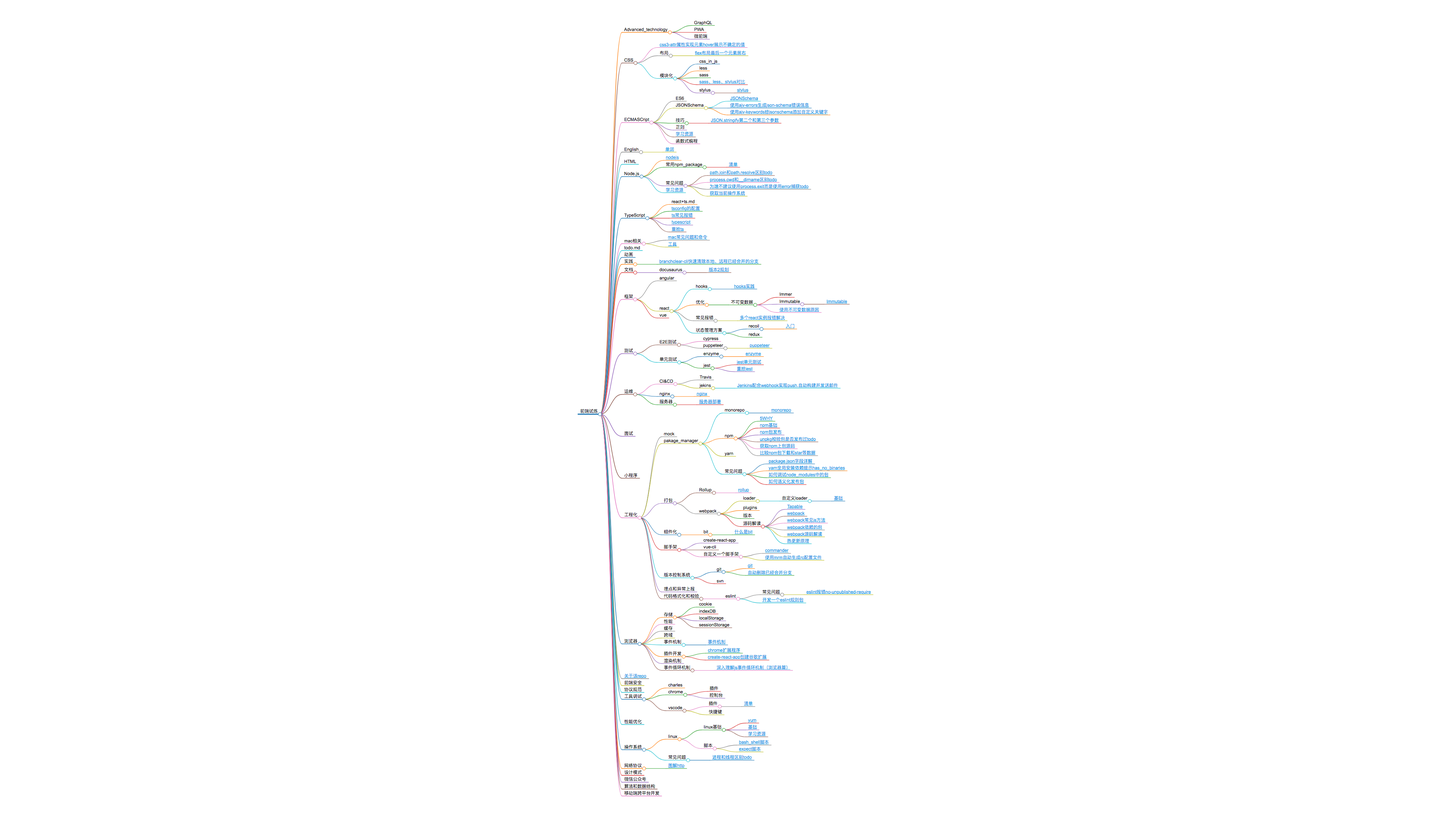
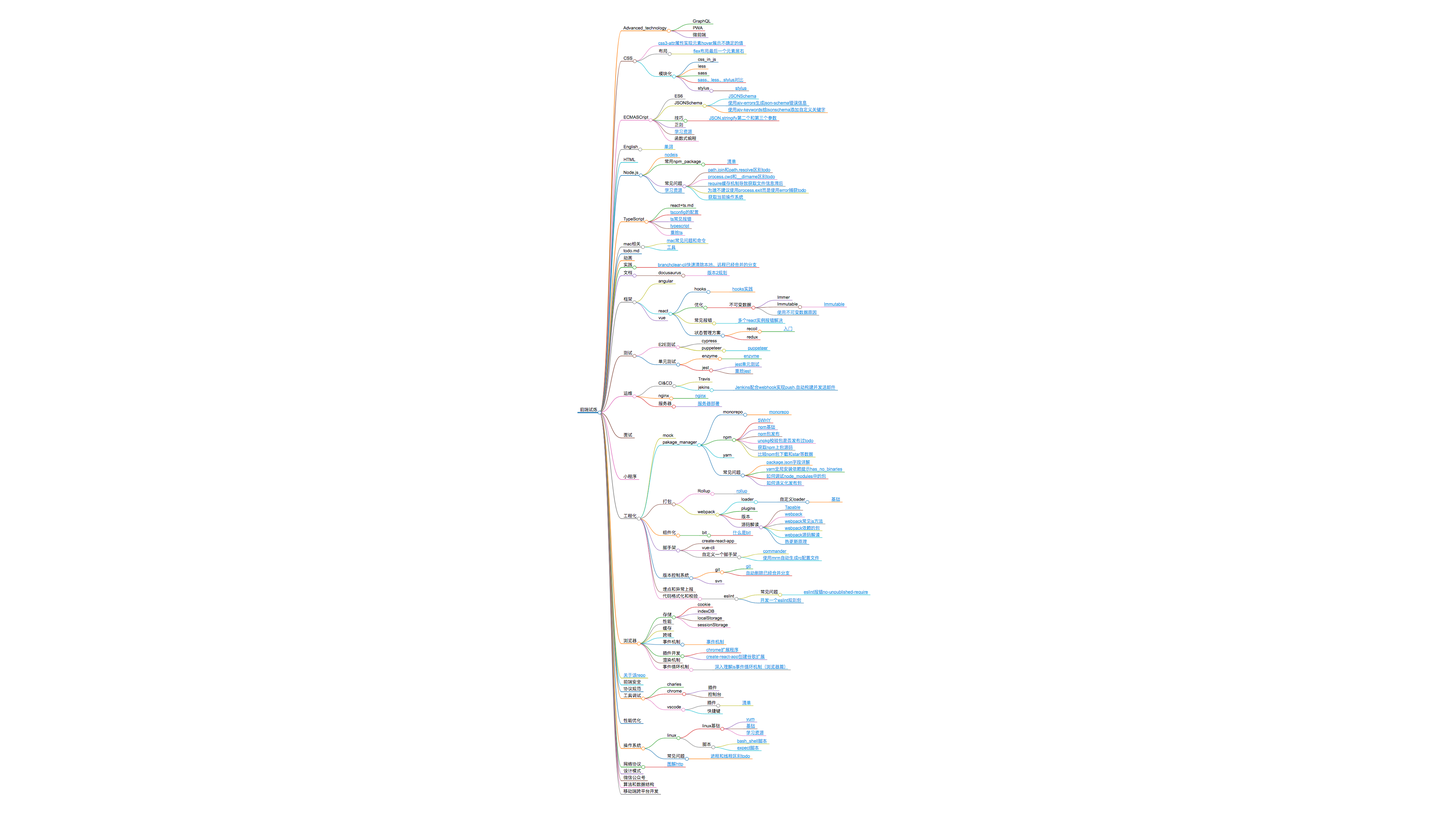
chore: updata思维导图

Changed region(s): [[0.4062, 0.031, 0.5938, 0.9926]]

diff --git a/website/static/xmind.html b/website/static/xmind.html
@@ -28,6 +28,6 @@
         (init ? init(loadPlugins, items, opts) : Promise.resolve()).then(() => {
           window.mm = Markmap.create('svg#mindmap', null, data);
         });
-      })({"t":"heading","d":1,"v":"前端试炼","c":[{"t":"list_item","d":2,"v":"Advanced_technology","c":[{"t":"list_item","d":3,"v":"GraphQL"},{"t":"list_item","d":3,"v":"PWA"},{"t":"list_item","d":3,"v":"微前端"}]},{"t":"list_item","d":2,"v":"CSS","c":[{"t":"list_item","d":3,"v":"<a href=\"docs/CSS/0729c4e1a19b9e3b6904b91e63cbd435\" title=\"\" target=\"_blank\" rel=\"noopener noreferrer\">css3-attr属性实现元素hover展示不确定的值</a>"},{"t":"list_item","d":3,"v":"布局","c":[{"t":"list_item","d":4,"v":"<a href=\"docs/CSS/布局/eb6d78cc58b2a5329f391cf5692181a3\" title=\"\" target=\"_blank\" rel=\"noopener noreferrer\">flex布局最后一个元素居右</a>"}]},{"t":"list_item","d":3,"v":"模块化","c":[{"t":"list_item","d":4,"v":"css_in_js"},{"t":"list_item","d":4,"v":"less"},{"t":"list_item","d":4,"v":"sass"},{"t":"list_item","d":4,"v":"<a href=\"docs/CSS/模块化/98c70242585e1c8ac87207d342ab81e0\" title=\"\" target=\"_blank\" rel=\"noopener noreferrer\">sass、less、stylus对比</a>"},{"t":"list_item","d":4,"v":"stylus","c":[{"t":"list_item","d":5,"v":"<a href=\"docs/CSS/模块化/stylus/3eef002bc8e16c0f5c28e748a52e231d\" title=\"\" target=\"_blank\" rel=\"noopener noreferrer\">stylus</a>"}]}]}]},{"t":"list_item","d":2,"v":"ECMASCript","c":[{"t":"list_item","d":3,"v":"ES6"},{"t":"list_item","d":3,"v":"JSONSchema","c":[{"t":"list_item","d":4,"v":"<a href=\"docs/ECMASCript/JSONSchema/718deb34c13a2d51e3c2ba69f472fce9\" title=\"\" target=\"_blank\" rel=\"noopener noreferrer\">JSONSchema</a>"},{"t":"list_item","d":4,"v":"<a href=\"docs/ECMASCript/JSONSchema/f7964c8f9054ea24043d6089ad339147\" title=\"\" target=\"_blank\" rel=\"noopener noreferrer\">使用ajv-errors生成json-schema错误信息</a>"},{"t":"list_item","d":4,"v":"<a href=\"docs/ECMASCript/JSONSchema/5237e232cb7cb852580db82169fdcaeb\" title=\"\" target=\"_blank\" rel=\"noopener noreferrer\">使用ajv-keywords给jsonschema添加自定义关键字</a>"}]},{"t":"list_item","d":3,"v":"技巧","c":[{"t":"list_item","d":4,"v":"<a href=\"docs/ECMASCript/技巧/5139b5f5e47a4d72104039ad03405c5d\" title=\"\" target=\"_blank\" rel=\"noopener noreferrer\">JSON.stringify第二个和第三个参数</a>"}]},{"t":"list_item","d":3,"v":"正则"},{"t":"list_item","d":3,"v":"<a href=\"docs/ECMASCript/b53484b1bcbe1911e09c68d510ac7d64\" title=\"\" target=\"_blank\" rel=\"noopener noreferrer\">学习资源</a>"},{"t":"list_item","d":3,"v":"函数式编程"}]},{"t":"list_item","d":2,"v":"English","c":[{"t":"list_item","d":3,"v":"<a href=\"docs/English/72a91cf59167d6c497b1e3057447af5a\" title=\"\" target=\"_blank\" rel=\"noopener noreferrer\">单词</a>"}]},{"t":"list_item","d":2,"v":"HTML"},{"t":"list_item","d":2,"v":"Node.js","c":[{"t":"list_item","d":3,"v":"<a href=\"docs/Node.js/9357827bccfd0bf3ae944e8deeb1fa48\" title=\"\" target=\"_blank\" rel=\"noopener noreferrer\">nodejs</a>"},{"t":"list_item","d":3,"v":"常用npm_package","c":[{"t":"list_item","d":4,"v":"<a href=\"docs/Node.js/常用npm_package/5b48dd8280d9d24945307c72022765a0\" title=\"\" target=\"_blank\" rel=\"noopener noreferrer\">清单</a>"}]},{"t":"list_item","d":3,"v":"常见问题","c":[{"t":"list_item","d":4,"v":"<a href=\"docs/Node.js/常见问题/f874460aea01b819cbf70140c60331a4\" title=\"\" target=\"_blank\" rel=\"noopener noreferrer\">path.join和path.resolve区别todo</a>"},{"t":"list_item","d":4,"v":"<a href=\"docs/Node.js/常见问题/50ed84a6800346cb4b1d9cd9c13745d5\" title=\"\" target=\"_blank\" rel=\"noopener noreferrer\">process.cwd和__dirname区别todo</a>"},{"t":"list_item","d":4,"v":"<a href=\"docs/Node.js/常见问题/d3fd7ec814edd2f7330387995085241f\" title=\"\" target=\"_blank\" rel=\"noopener noreferrer\">为啥不建议使用process.exit而是使用error捕获todo</a>"},{"t":"list_item","d":4,"v":"<a href=\"docs/Node.js/常见问题/bf0629eadb8aaeb89078485e6f68a4e6\" title=\"\" target=\"_blank\" rel=\"noopener noreferrer\">获取当前操作系统</a>"}]},{"t":"list_item","d":3,"v":"<a href=\"docs/ECMASCript/b53484b1bcbe1911e09c68d510ac7d64\" title=\"\" target=\"_blank\" rel=\"noopener noreferrer\">学习资源</a>"}]},{"t":"list_item","d":2,"v":"TypeScript","c":[{"t":"list_item","d":3,"v":"react+ts.md"},{"t":"list_item","d":3,"v":"<a href=\"docs/TypeScript/941029577f8137518ccff8392ddf4bfc\" title=\"\" target=\"_blank\" rel=\"noopener noreferrer\">tsconfig的配置</a>"},{"t":"list_item","d":3,"v":"<a href=\"docs/TypeScript/e387b68cc466c705d3a61c3582db7e05\" title=\"\" target=\"_blank\" rel=\"noopener noreferrer\">ts常见报错</a>"},{"t":"list_item","d":3,"v":"<a href=\"docs/TypeScript/808567b84cc51ad515d4820e54f84e31\" title=\"\" target=\"_blank\" rel=\"noopener noreferrer\">typescript</a>"},{"t":"list_item","d":3,"v":"<a href=\"docs/TypeScript/b36f6376acc1abd98aab96ef91491d2b\" title=\"\" target=\"_blank\" rel=\"noopener noreferrer\">重拾ts</a>"}]},{"t":"list_item","d":2,"v":"mac相关","c":[{"t":"list_item","d":3,"v":"<a href=\"docs/mac相关/f9043ab4f4bd67e13820f42a3e175b56\" title=\"\" target=\"_blank\" rel=\"noopener noreferrer\">mac常见问题和命令</a>"},{"t":"list_item","d":3,"v":"<a href=\"docs/mac相关/82d4f547f3142fe4ef26499f9a3096c0\" title=\"\" target=\"_blank\" rel=\"noopener noreferrer\">工具</a>"}]},{"t":"list_item","d":2,"v":"todo.md"},{"t":"list_item","d":2,"v":"动画"},{"t":"list_item","d":2,"v":"实践","c":[{"t":"list_item","d":3,"v":"<a href=\"docs/实践/bff45875a92bdbb4eff38e2fbd282edc\" title=\"\" target=\"_blank\" rel=\"noopener noreferrer\">branchclear-cli快速清除本地、远程已经合并的分支</a>"}]},{"t":"list_item","d":2,"v":"文档","c":[{"t":"list_item","d":3,"v":"docusaurus","c":[{"t":"list_item","d":4,"v":"<a href=\"docs/文档/docusaurus/a7934b68b6234157a1af4087537d1e8b\" title=\"\" target=\"_blank\" rel=\"noopener noreferrer\">版本2规划</a>"}]}]},{"t":"list_item","d":2,"v":"框架","c":[{"t":"list_item","d":3,"v":"angular"},{"t":"list_item","d":3,"v":"react","c":[{"t":"list_item","d":4,"v":"hooks","c":[{"t":"list_item","d":5,"v":"<a href=\"docs/框架/react/hooks/9991378aff737eabebd91bfda98cdb30\" title=\"\" target=\"_blank\" rel=\"noopener noreferrer\">hooks实践</a>"}]},{"t":"list_item","d":4,"v":"优化","c":[{"t":"list_item","d":5,"v":"不可变数据","c":[{"t":"list_item","d":6,"v":"Immer"},{"t":"list_item","d":6,"v":"Immutable","c":[{"t":"list_item","d":7,"v":"<a href=\"docs/框架/react/优化/不可变数据/Immutable/621796f5446f10b3efc9f3e9e5ba1f85\" title=\"\" target=\"_blank\" rel=\"noopener noreferrer\">Immutable</a>"}]},{"t":"list_item","d":6,"v":"<a href=\"docs/框架/react/优化/不可变数据/5dbc6cd87c89bc3c45fc1c7847cf5f4a\" title=\"\" target=\"_blank\" rel=\"noopener noreferrer\">使用不可变数据原因</a>"}]}]},{"t":"list_item","d":4,"v":"常见报错","c":[{"t":"list_item","d":5,"v":"<a href=\"docs/框架/react/常见报错/7d0e60c89a5f550eadf89f5f22550bcc\" title=\"\" target=\"_blank\" rel=\"noopener noreferrer\">多个react实例报错解决</a>"}]},{"t":"list_item","d":4,"v":"状态管理方案","c":[{"t":"list_item","d":5,"v":"recoil","c":[{"t":"list_item","d":6,"v":"<a href=\"docs/框架/react/状态管理方案/recoil/f875b638480655fa74ed57f634dda816\" title=\"\" target=\"_blank\" rel=\"noopener noreferrer\">入门</a>"}]},{"t":"list_item","d":5,"v":"redux"}]}]},{"t":"list_item","d":3,"v":"vue"}]},{"t":"list_item","d":2,"v":"测试","c":[{"t":"list_item","d":3,"v":"E2E测试","c":[{"t":"list_item","d":4,"v":"cypress"},{"t":"list_item","d":4,"v":"puppeteer","c":[{"t":"list_item","d":5,"v":"<a href=\"docs/测试/E2E测试/puppeteer/179673e977b3c3f9ad055a4b4a1e4eff\" title=\"\" target=\"_blank\" rel=\"noopener noreferrer\">puppeteer</a>"}]}]},{"t":"list_item","d":3,"v":"单元测试","c":[{"t":"list_item","d":4,"v":"enzyme","c":[{"t":"list_item","d":5,"v":"<a href=\"docs/测试/单元测试/enzyme/ff68fd239a281351a53d6e0b62b17fe7\" title=\"\" target=\"_blank\" rel=\"noopener noreferrer\">enzyme</a>"}]},{"t":"list_item","d":4,"v":"jest","c":[{"t":"list_item","d":5,"v":"<a href=\"docs/测试/单元测试/jest/094b039468990ad513f1f8dd484d8dc2\" title=\"\" target=\"_blank\" rel=\"noopener noreferrer\">jest单元测试</a>"},{"t":"list_item","d":5,"v":"<a href=\"docs/测试/单元测试/jest/b1f6cee7ef1784df1f5f69a9c4a785da\" title=\"\" target=\"_blank\" rel=\"noopener noreferrer\">重拾jest</a>"}]}]}]},{"t":"list_item","d":2,"v":"运维","c":[{"t":"list_item","d":3,"v":"CI&amp;CD","c":[{"t":"list_item","d":4,"v":"Travis"},{"t":"list_item","d":4,"v":"jekins","c":[{"t":"list_item","d":5,"v":"<a href=\"docs/运维/CI&amp;CD/jekins/69e64cd56b4da0c2d19ca9f6aa38e042\" title=\"\" target=\"_blank\" rel=\"noopener noreferrer\">Jenkins配合webhook实现push,自动构建并发送邮件</a>"}]}]},{"t":"list_item","d":3,"v":"nginx","c":[{"t":"list_item","d":4,"v":"<a href=\"docs/运维/nginx/c135a55ada5c373bcd601d340d2d1943\" title=\"\" target=\"_blank\" rel=\"noopener noreferrer\">nginx</a>"}]},{"t":"list_item","d":3,"v":"服务器","c":[{"t":"list_item","d":4,"v":"<a href=\"docs/运维/服务器/4534c39b9f5e4932e9fafed646293fde\" title=\"\" target=\"_blank\" rel=\"noopener noreferrer\">服务器部署</a>"}]}]},{"t":"list_item","d":2,"v":"面试"},{"t":"list_item","d":2,"v":"小程序"},{"t":"list_item","d":2,"v":"工程化","c":[{"t":"list_item","d":3,"v":"mock"},{"t":"list_item","d":3,"v":"pakage_manager","c":[{"t":"list_item","d":4,"v":"monorepo","c":[{"t":"list_item","d":5,"v":"<a href=\"docs/工程化/pakage_manager/monorepo/2fc77a972253a664a79edc7890b1cdaa\" title=\"\" target=\"_blank\" rel=\"noopener noreferrer\">monorepo</a>"}]},{"t":"list_item","d":4,"v":"npm","c":[{"t":"list_item","d":5,"v":"<a href=\"docs/工程化/pakage_manager/npm/c7133389f53e8d534c388d5ce8b37459\" title=\"\" target=\"_blank\" rel=\"noopener noreferrer\">5WHY</a>"},{"t":"list_item","d":5,"v":"<a href=\"docs/工程化/pakage_manager/npm/b0d55dfa1de54204fc41a6b540e0e1e8\" title=\"\" target=\"_blank\" rel=\"noopener noreferrer\">npm基础</a>"},{"t":"list_item","d":5,"v":"<a href=\"docs/工程化/pakage_manager/npm/ba56c3b18aefa148f9439f026ec3f973\" title=\"\" target=\"_blank\" rel=\"noopener noreferrer\">npm包发布</a>"},{"t":"list_item","d":5,"v":"<a href=\"docs/工程化/pakage_manager/npm/3dd3c63e7e82145fe4b336ebc0271830\" title=\"\" target=\"_blank\" rel=\"noopener noreferrer\">unpkg校验包是否发布过todo</a>"},{"t":"list_item","d":5,"v":"<a href=\"docs/工程化/pakage_manager/npm/76a2b2c6444168e2975719ab5b80d947\" title=\"\" target=\"_blank\" rel=\"noopener noreferrer\">获取npm上包源码</a>"},{"t":"list_item","d":5,"v":"<a href=\"docs/工程化/pakage_manager/npm/4d10ece56264e33ab8a02f78698d77a1\" title=\"\" target=\"_blank\" rel=\"noopener noreferrer\">比较npm包下载和star等数据</a>"}]},{"t":"list_item","d":4,"v":"yarn"},{"t":"list_item","d":4,"v":"常见问题","c":[{"t":"list_item","d":5,"v":"<a href=\"docs/工程化/pakage_manager/常见问题/505112b129e18311b92912279ec967ac\" title=\"\" target=\"_blank\" rel=\"noopener noreferrer\">package.json字段详解</a>"},{"t":"list_item","d":5,"v":"<a href=\"docs/工程化/pakage_manager/常见问题/aa55a1757ae8690ae5adae7d48914a4a\" title=\"\" target=\"_blank\" rel=\"noopener noreferrer\">yarn全局安装依赖提示has_no_binaries</a>"},{"t":"list_item","d":5,"v":"<a href=\"docs/工程化/pakage_manager/常见问题/00acc1fbba1d66b5070d1c7cb5c9a175\" title=\"\" target=\"_blank\" rel=\"noopener noreferrer\">如何调试node_modules中的包</a>"},{"t":"list_item","d":5,"v":"<a href=\"docs/工程化/pakage_manager/常见问题/fa267f67236440714dbd398db0b50f41\" title=\"\" target=\"_blank\" rel=\"noopener noreferrer\">如何语义化发布包</a>"}]}]},{"t":"list_item","d":3,"v":"打包","c":[{"t":"list_item","d":4,"v":"Rollup","c":[{"t":"list_item","d":5,"v":"<a href=\"docs/工程化/打包/Rollup/4918d3072fb3da6be9ad6cfe54c020f3\" title=\"\" target=\"_blank\" rel=\"noopener noreferrer\">rollup</a>"}]},{"t":"list_item","d":4,"v":"webpack","c":[{"t":"list_item","d":5,"v":"loader","c":[{"t":"list_item","d":6,"v":"自定义loader","c":[{"t":"list_item","d":7,"v":"<a href=\"docs/工程化/打包/webpack/loader/自定义loader/bb6fe2d423417230b7c365bc5b206c5c\" title=\"\" target=\"_blank\" rel=\"noopener noreferrer\">基础</a>"}]}]},{"t":"list_item","d":5,"v":"plugins"},{"t":"list_item","d":5,"v":"版本"},{"t":"list_item","d":5,"v":"源码解读","c":[{"t":"list_item","d":6,"v":"<a href=\"docs/工程化/打包/webpack/源码解读/3044cf73a36f83e5344247f79ffb719e\" title=\"\" target=\"_blank\" rel=\"noopener noreferrer\">Tapable</a>"},{"t":"list_item","d":6,"v":"<a href=\"docs/工程化/打包/webpack/源码解读/8b9409a6ad189493556150ffca9a2079\" title=\"\" target=\"_blank\" rel=\"noopener noreferrer\">webpack</a>"},{"t":"list_item","d":6,"v":"<a href=\"docs/工程化/打包/webpack/源码解读/7cb10912f28c1696659c6131b517f27c\" title=\"\" target=\"_blank\" rel=\"noopener noreferrer\">webpack常见js方法</a>"},{"t":"list_item","d":6,"v":"<a href=\"docs/工程化/打包/webpack/源码解读/0889ebe5191ee49173a6c02e5d4ccd6f\" title=\"\" target=\"_blank\" rel=\"noopener noreferrer\">webpack依赖的包</a>"},{"t":"list_item","d":6,"v":"<a href=\"docs/工程化/打包/webpack/源码解读/80e8979bbebe30571bf98fea6d3b32d0\" title=\"\" target=\"_blank\" rel=\"noopener noreferrer\">webpack源码解读</a>"},{"t":"list_item","d":6,"v":"<a href=\"docs/工程化/打包/webpack/源码解读/768e191e2dc797ba437ddbf619dcf3b5\" title=\"\" target=\"_blank\" rel=\"noopener noreferrer\">热更新原理</a>"}]}]}]},{"t":"list_item","d":3,"v":"组件化","c":[{"t":"list_item","d":4,"v":"bit","c":[{"t":"list_item","d":5,"v":"<a href=\"docs/工程化/组件化/bit/be1ca961dc46d96b90f640b1a9f91637\" title=\"\" target=\"_blank\" rel=\"noopener noreferrer\">什么是bit</a>"}]}]},{"t":"list_item","d":3,"v":"脚手架","c":[{"t":"list_item","d":4,"v":"create-react-app"},{"t":"list_item","d":4,"v":"vue-cli"},{"t":"list_item","d":4,"v":"自定义一个脚手架","c":[{"t":"list_item","d":5,"v":"<a href=\"docs/工程化/脚手架/自定义一个脚手架/e1f3c1423014acd77d6282114faf6935\" title=\"\" target=\"_blank\" rel=\"noopener noreferrer\">commander</a>"},{"t":"list_item","d":5,"v":"<a href=\"docs/工程化/脚手架/自定义一个脚手架/a22104b4d4d83949f5bd3d6a37f5e0e6\" title=\"\" target=\"_blank\" rel=\"noopener noreferrer\">使用mrm自动生成rc配置文件</a>"}]}]},{"t":"list_item","d":3,"v":"版本控制系统","c":[{"t":"list_item","d":4,"v":"git","c":[{"t":"list_item","d":5,"v":"<a href=\"docs/工程化/版本控制系统/git/85735fc293ff4dbf3ef3e42201cb061d\" title=\"\" target=\"_blank\" rel=\"noopener noreferrer\">git</a>"},{"t":"list_item","d":5,"v":"<a href=\"docs/工程化/版本控制系统/git/f44cff448a465ee2ca3198da71bcb121\" title=\"\" target=\"_blank\" rel=\"noopener noreferrer\">自动删除已经合并分支</a>"}]},{"t":"list_item","d":4,"v":"svn"}]},{"t":"list_item","d":3,"v":"埋点和异常上报"},{"t":"list_item","d":3,"v":"代码格式化和校验","c":[{"t":"list_item","d":4,"v":"eslint","c":[{"t":"list_item","d":5,"v":"常见问题","c":[{"t":"list_item","d":6,"v":"<a href=\"docs/工程化/代码格式化和校验/eslint/常见问题/233da306cf55234202a23869df56766b\" title=\"\" target=\"_blank\" rel=\"noopener noreferrer\">eslint报错no-unpublished-require</a>"}]},{"t":"list_item","d":5,"v":"<a href=\"docs/工程化/代码格式化和校验/eslint/a32e173f131f0493cb5fc48bf410366b\" title=\"\" target=\"_blank\" rel=\"noopener noreferrer\">开发一个eslint规则包</a>"}]}]}]},{"t":"list_item","d":2,"v":"浏览器","c":[{"t":"list_item","d":3,"v":"存储","c":[{"t":"list_item","d":4,"v":"cookie"},{"t":"list_item","d":4,"v":"indexDB"},{"t":"list_item","d":4,"v":"localStorage"},{"t":"list_item","d":4,"v":"sessionStorage"}]},{"t":"list_item","d":3,"v":"性能"},{"t":"list_item","d":3,"v":"缓存"},{"t":"list_item","d":3,"v":"跨域"},{"t":"list_item","d":3,"v":"事件机制","c":[{"t":"list_item","d":4,"v":"<a href=\"docs/浏览器/事件机制/87752b53c7784786dab3942f0aaa23aa\" title=\"\" target=\"_blank\" rel=\"noopener noreferrer\">事件机制</a>"}]},{"t":"list_item","d":3,"v":"插件开发","c":[{"t":"list_item","d":4,"v":"<a href=\"docs/浏览器/插件开发/05456f7f836f1d5ccf67498cad9d6745\" title=\"\" target=\"_blank\" rel=\"noopener noreferrer\">chrome扩展程序</a>"},{"t":"list_item","d":4,"v":"<a href=\"docs/浏览器/插件开发/4a29e3516544d5fec60d6c604d33dd46\" title=\"\" target=\"_blank\" rel=\"noopener noreferrer\">create-react-app创建谷歌扩展</a>"}]},{"t":"list_item","d":3,"v":"渲染机制"},{"t":"list_item","d":3,"v":"事件循环机制","c":[{"t":"list_item","d":4,"v":"<a href=\"docs/浏览器/事件循环机制/9cf564181c2b2d6a44c89a4d1f4f0952\" title=\"\" target=\"_blank\" rel=\"noopener noreferrer\">深入理解js事件循环机制（浏览器篇）</a>"}]}]},{"t":"list_item","d":2,"v":"<a href=\"docs/95a148348b289ba387509c05eb1c6af2\" title=\"\" target=\"_blank\" rel=\"noopener noreferrer\">关于该repo</a>"},{"t":"list_item","d":2,"v":"前端安全"},{"t":"list_item","d":2,"v":"协议规范"},{"t":"list_item","d":2,"v":"工具调试","c":[{"t":"list_item","d":3,"v":"charles"},{"t":"list_item","d":3,"v":"chrome","c":[{"t":"list_item","d":4,"v":"插件"},{"t":"list_item","d":4,"v":"控制台"}]},{"t":"list_item","d":3,"v":"vscode","c":[{"t":"list_item","d":4,"v":"插件","c":[{"t":"list_item","d":5,"v":"<a href=\"docs/Node.js/常用npm_package/5b48dd8280d9d24945307c72022765a0\" title=\"\" target=\"_blank\" rel=\"noopener noreferrer\">清单</a>"}]},{"t":"list_item","d":4,"v":"快捷键"}]}]},{"t":"list_item","d":2,"v":"性能优化"},{"t":"list_item","d":2,"v":"操作系统","c":[{"t":"list_item","d":3,"v":"linux","c":[{"t":"list_item","d":4,"v":"linux基础","c":[{"t":"list_item","d":5,"v":"<a href=\"docs/操作系统/linux/linux基础/4c70355f2f692142ff83f1581fd5342c\" title=\"\" target=\"_blank\" rel=\"noopener noreferrer\">yum</a>"},{"t":"list_item","d":5,"v":"<a href=\"docs/工程化/打包/webpack/loader/自定义loader/bb6fe2d423417230b7c365bc5b206c5c\" title=\"\" target=\"_blank\" rel=\"noopener noreferrer\">基础</a>"},{"t":"list_item","d":5,"v":"<a href=\"docs/ECMASCript/b53484b1bcbe1911e09c68d510ac7d64\" title=\"\" target=\"_blank\" rel=\"noopener noreferrer\">学习资源</a>"}]},{"t":"list_item","d":4,"v":"脚本","c":[{"t":"list_item","d":5,"v":"<a href=\"docs/操作系统/linux/脚本/5d8743a01675138db72310478b6c7f30\" title=\"\" target=\"_blank\" rel=\"noopener noreferrer\">bash_shell脚本</a>"},{"t":"list_item","d":5,"v":"<a href=\"docs/操作系统/linux/脚本/c89e3ed149c086944696ba0fe3a5ffde\" title=\"\" target=\"_blank\" rel=\"noopener noreferrer\">expect脚本</a>"}]}]},{"t":"list_item","d":3,"v":"常见问题","c":[{"t":"list_item","d":4,"v":"<a href=\"docs/操作系统/常见问题/266a427dc6cbff56d8603056f435a8b9\" title=\"\" target=\"_blank\" rel=\"noopener noreferrer\">进程和线程区别todo</a>"}]}]},{"t":"list_item","d":2,"v":"网络协议","c":[{"t":"list_item","d":3,"v":"<a href=\"docs/网络协议/51598b43a209ae4d33a59bb92df20032\" title=\"\" target=\"_blank\" rel=\"noopener noreferrer\">图解http</a>"}]},{"t":"list_item","d":2,"v":"设计模式"},{"t":"list_item","d":2,"v":"微信公众号"},{"t":"list_item","d":2,"v":"算法和数据结构"},{"t":"list_item","d":2,"v":"移动端跨平台开发"}]},(loadPlugins, items, opts) => loadPlugins(items, opts),["prism"],{"prism":true})</script>
+      })({"t":"heading","d":1,"v":"前端试炼","c":[{"t":"list_item","d":2,"v":"Advanced_technology","c":[{"t":"list_item","d":3,"v":"GraphQL"},{"t":"list_item","d":3,"v":"PWA"},{"t":"list_item","d":3,"v":"微前端"}]},{"t":"list_item","d":2,"v":"CSS","c":[{"t":"list_item","d":3,"v":"<a href=\"docs/CSS/0729c4e1a19b9e3b6904b91e63cbd435\" title=\"\" target=\"_blank\" rel=\"noopener noreferrer\">css3-attr属性实现元素hover展示不确定的值</a>"},{"t":"list_item","d":3,"v":"布局","c":[{"t":"list_item","d":4,"v":"<a href=\"docs/CSS/布局/eb6d78cc58b2a5329f391cf5692181a3\" title=\"\" target=\"_blank\" rel=\"noopener noreferrer\">flex布局最后一个元素居右</a>"}]},{"t":"list_item","d":3,"v":"模块化","c":[{"t":"list_item","d":4,"v":"css_in_js"},{"t":"list_item","d":4,"v":"less"},{"t":"list_item","d":4,"v":"sass"},{"t":"list_item","d":4,"v":"<a href=\"docs/CSS/模块化/98c70242585e1c8ac87207d342ab81e0\" title=\"\" target=\"_blank\" rel=\"noopener noreferrer\">sass、less、stylus对比</a>"},{"t":"list_item","d":4,"v":"stylus","c":[{"t":"list_item","d":5,"v":"<a href=\"docs/CSS/模块化/stylus/3eef002bc8e16c0f5c28e748a52e231d\" title=\"\" target=\"_blank\" rel=\"noopener noreferrer\">stylus</a>"}]}]}]},{"t":"list_item","d":2,"v":"ECMASCript","c":[{"t":"list_item","d":3,"v":"ES6"},{"t":"list_item","d":3,"v":"JSONSchema","c":[{"t":"list_item","d":4,"v":"<a href=\"docs/ECMASCript/JSONSchema/718deb34c13a2d51e3c2ba69f472fce9\" title=\"\" target=\"_blank\" rel=\"noopener noreferrer\">JSONSchema</a>"},{"t":"list_item","d":4,"v":"<a href=\"docs/ECMASCript/JSONSchema/f7964c8f9054ea24043d6089ad339147\" title=\"\" target=\"_blank\" rel=\"noopener noreferrer\">使用ajv-errors生成json-schema错误信息</a>"},{"t":"list_item","d":4,"v":"<a href=\"docs/ECMASCript/JSONSchema/5237e232cb7cb852580db82169fdcaeb\" title=\"\" target=\"_blank\" rel=\"noopener noreferrer\">使用ajv-keywords给jsonschema添加自定义关键字</a>"}]},{"t":"list_item","d":3,"v":"技巧","c":[{"t":"list_item","d":4,"v":"<a href=\"docs/ECMASCript/技巧/5139b5f5e47a4d72104039ad03405c5d\" title=\"\" target=\"_blank\" rel=\"noopener noreferrer\">JSON.stringify第二个和第三个参数</a>"}]},{"t":"list_item","d":3,"v":"正则"},{"t":"list_item","d":3,"v":"<a href=\"docs/ECMASCript/b53484b1bcbe1911e09c68d510ac7d64\" title=\"\" target=\"_blank\" rel=\"noopener noreferrer\">学习资源</a>"},{"t":"list_item","d":3,"v":"函数式编程"}]},{"t":"list_item","d":2,"v":"English","c":[{"t":"list_item","d":3,"v":"<a href=\"docs/English/72a91cf59167d6c497b1e3057447af5a\" title=\"\" target=\"_blank\" rel=\"noopener noreferrer\">单词</a>"}]},{"t":"list_item","d":2,"v":"HTML"},{"t":"list_item","d":2,"v":"Node.js","c":[{"t":"list_item","d":3,"v":"<a href=\"docs/Node.js/9357827bccfd0bf3ae944e8deeb1fa48\" title=\"\" target=\"_blank\" rel=\"noopener noreferrer\">nodejs</a>"},{"t":"list_item","d":3,"v":"常用npm_package","c":[{"t":"list_item","d":4,"v":"<a href=\"docs/Node.js/常用npm_package/5b48dd8280d9d24945307c72022765a0\" title=\"\" target=\"_blank\" rel=\"noopener noreferrer\">清单</a>"}]},{"t":"list_item","d":3,"v":"常见问题","c":[{"t":"list_item","d":4,"v":"<a href=\"docs/Node.js/常见问题/f874460aea01b819cbf70140c60331a4\" title=\"\" target=\"_blank\" rel=\"noopener noreferrer\">path.join和path.resolve区别todo</a>"},{"t":"list_item","d":4,"v":"<a href=\"docs/Node.js/常见问题/50ed84a6800346cb4b1d9cd9c13745d5\" title=\"\" target=\"_blank\" rel=\"noopener noreferrer\">process.cwd和__dirname区别todo</a>"},{"t":"list_item","d":4,"v":"<a href=\"docs/Node.js/常见问题/6f48d8764eaa96778c489f0f9b512dd3\" title=\"\" target=\"_blank\" rel=\"noopener noreferrer\">require缓存机制导致获取文件信息滞后</a>"},{"t":"list_item","d":4,"v":"<a href=\"docs/Node.js/常见问题/d3fd7ec814edd2f7330387995085241f\" title=\"\" target=\"_blank\" rel=\"noopener noreferrer\">为啥不建议使用process.exit而是使用error捕获todo</a>"},{"t":"list_item","d":4,"v":"<a href=\"docs/Node.js/常见问题/bf0629eadb8aaeb89078485e6f68a4e6\" title=\"\" target=\"_blank\" rel=\"noopener noreferrer\">获取当前操作系统</a>"}]},{"t":"list_item","d":3,"v":"<a href=\"docs/ECMASCript/b53484b1bcbe1911e09c68d510ac7d64\" title=\"\" target=\"_blank\" rel=\"noopener noreferrer\">学习资源</a>"}]},{"t":"list_item","d":2,"v":"TypeScript","c":[{"t":"list_item","d":3,"v":"react+ts.md"},{"t":"list_item","d":3,"v":"<a href=\"docs/TypeScript/941029577f8137518ccff8392ddf4bfc\" title=\"\" target=\"_blank\" rel=\"noopener noreferrer\">tsconfig的配置</a>"},{"t":"list_item","d":3,"v":"<a href=\"docs/TypeScript/e387b68cc466c705d3a61c3582db7e05\" title=\"\" target=\"_blank\" rel=\"noopener noreferrer\">ts常见报错</a>"},{"t":"list_item","d":3,"v":"<a href=\"docs/TypeScript/808567b84cc51ad515d4820e54f84e31\" title=\"\" target=\"_blank\" rel=\"noopener noreferrer\">typescript</a>"},{"t":"list_item","d":3,"v":"<a href=\"docs/TypeScript/b36f6376acc1abd98aab96ef91491d2b\" title=\"\" target=\"_blank\" rel=\"noopener noreferrer\">重拾ts</a>"}]},{"t":"list_item","d":2,"v":"mac相关","c":[{"t":"list_item","d":3,"v":"<a href=\"docs/mac相关/f9043ab4f4bd67e13820f42a3e175b56\" title=\"\" target=\"_blank\" rel=\"noopener noreferrer\">mac常见问题和命令</a>"},{"t":"list_item","d":3,"v":"<a href=\"docs/mac相关/82d4f547f3142fe4ef26499f9a3096c0\" title=\"\" target=\"_blank\" rel=\"noopener noreferrer\">工具</a>"}]},{"t":"list_item","d":2,"v":"todo.md"},{"t":"list_item","d":2,"v":"动画"},{"t":"list_item","d":2,"v":"实践","c":[{"t":"list_item","d":3,"v":"<a href=\"docs/实践/bff45875a92bdbb4eff38e2fbd282edc\" title=\"\" target=\"_blank\" rel=\"noopener noreferrer\">branchclear-cli快速清除本地、远程已经合并的分支</a>"}]},{"t":"list_item","d":2,"v":"文档","c":[{"t":"list_item","d":3,"v":"docusaurus","c":[{"t":"list_item","d":4,"v":"<a href=\"docs/文档/docusaurus/a7934b68b6234157a1af4087537d1e8b\" title=\"\" target=\"_blank\" rel=\"noopener noreferrer\">版本2规划</a>"}]}]},{"t":"list_item","d":2,"v":"框架","c":[{"t":"list_item","d":3,"v":"angular"},{"t":"list_item","d":3,"v":"react","c":[{"t":"list_item","d":4,"v":"hooks","c":[{"t":"list_item","d":5,"v":"<a href=\"docs/框架/react/hooks/9991378aff737eabebd91bfda98cdb30\" title=\"\" target=\"_blank\" rel=\"noopener noreferrer\">hooks实践</a>"}]},{"t":"list_item","d":4,"v":"优化","c":[{"t":"list_item","d":5,"v":"不可变数据","c":[{"t":"list_item","d":6,"v":"Immer"},{"t":"list_item","d":6,"v":"Immutable","c":[{"t":"list_item","d":7,"v":"<a href=\"docs/框架/react/优化/不可变数据/Immutable/621796f5446f10b3efc9f3e9e5ba1f85\" title=\"\" target=\"_blank\" rel=\"noopener noreferrer\">Immutable</a>"}]},{"t":"list_item","d":6,"v":"<a href=\"docs/框架/react/优化/不可变数据/5dbc6cd87c89bc3c45fc1c7847cf5f4a\" title=\"\" target=\"_blank\" rel=\"noopener noreferrer\">使用不可变数据原因</a>"}]}]},{"t":"list_item","d":4,"v":"常见报错","c":[{"t":"list_item","d":5,"v":"<a href=\"docs/框架/react/常见报错/7d0e60c89a5f550eadf89f5f22550bcc\" title=\"\" target=\"_blank\" rel=\"noopener noreferrer\">多个react实例报错解决</a>"}]},{"t":"list_item","d":4,"v":"状态管理方案","c":[{"t":"list_item","d":5,"v":"recoil","c":[{"t":"list_item","d":6,"v":"<a href=\"docs/框架/react/状态管理方案/recoil/f875b638480655fa74ed57f634dda816\" title=\"\" target=\"_blank\" rel=\"noopener noreferrer\">入门</a>"}]},{"t":"list_item","d":5,"v":"redux"}]}]},{"t":"list_item","d":3,"v":"vue"}]},{"t":"list_item","d":2,"v":"测试","c":[{"t":"list_item","d":3,"v":"E2E测试","c":[{"t":"list_item","d":4,"v":"cypress"},{"t":"list_item","d":4,"v":"puppeteer","c":[{"t":"list_item","d":5,"v":"<a href=\"docs/测试/E2E测试/puppeteer/179673e977b3c3f9ad055a4b4a1e4eff\" title=\"\" target=\"_blank\" rel=\"noopener noreferrer\">puppeteer</a>"}]}]},{"t":"list_item","d":3,"v":"单元测试","c":[{"t":"list_item","d":4,"v":"enzyme","c":[{"t":"list_item","d":5,"v":"<a href=\"docs/测试/单元测试/enzyme/ff68fd239a281351a53d6e0b62b17fe7\" title=\"\" target=\"_blank\" rel=\"noopener noreferrer\">enzyme</a>"}]},{"t":"list_item","d":4,"v":"jest","c":[{"t":"list_item","d":5,"v":"<a href=\"docs/测试/单元测试/jest/094b039468990ad513f1f8dd484d8dc2\" title=\"\" target=\"_blank\" rel=\"noopener noreferrer\">jest单元测试</a>"},{"t":"list_item","d":5,"v":"<a href=\"docs/测试/单元测试/jest/b1f6cee7ef1784df1f5f69a9c4a785da\" title=\"\" target=\"_blank\" rel=\"noopener noreferrer\">重拾jest</a>"}]}]}]},{"t":"list_item","d":2,"v":"运维","c":[{"t":"list_item","d":3,"v":"CI&amp;CD","c":[{"t":"list_item","d":4,"v":"Travis"},{"t":"list_item","d":4,"v":"jekins","c":[{"t":"list_item","d":5,"v":"<a href=\"docs/运维/CI&amp;CD/jekins/69e64cd56b4da0c2d19ca9f6aa38e042\" title=\"\" target=\"_blank\" rel=\"noopener noreferrer\">Jenkins配合webhook实现push,自动构建并发送邮件</a>"}]}]},{"t":"list_item","d":3,"v":"nginx","c":[{"t":"list_item","d":4,"v":"<a href=\"docs/运维/nginx/c135a55ada5c373bcd601d340d2d1943\" title=\"\" target=\"_blank\" rel=\"noopener noreferrer\">nginx</a>"}]},{"t":"list_item","d":3,"v":"服务器","c":[{"t":"list_item","d":4,"v":"<a href=\"docs/运维/服务器/4534c39b9f5e4932e9fafed646293fde\" title=\"\" target=\"_blank\" rel=\"noopener noreferrer\">服务器部署</a>"}]}]},{"t":"list_item","d":2,"v":"面试"},{"t":"list_item","d":2,"v":"小程序"},{"t":"list_item","d":2,"v":"工程化","c":[{"t":"list_item","d":3,"v":"mock"},{"t":"list_item","d":3,"v":"pakage_manager","c":[{"t":"list_item","d":4,"v":"monorepo","c":[{"t":"list_item","d":5,"v":"<a href=\"docs/工程化/pakage_manager/monorepo/2fc77a972253a664a79edc7890b1cdaa\" title=\"\" target=\"_blank\" rel=\"noopener noreferrer\">monorepo</a>"}]},{"t":"list_item","d":4,"v":"npm","c":[{"t":"list_item","d":5,"v":"<a href=\"docs/工程化/pakage_manager/npm/c7133389f53e8d534c388d5ce8b37459\" title=\"\" target=\"_blank\" rel=\"noopener noreferrer\">5WHY</a>"},{"t":"list_item","d":5,"v":"<a href=\"docs/工程化/pakage_manager/npm/b0d55dfa1de54204fc41a6b540e0e1e8\" title=\"\" target=\"_blank\" rel=\"noopener noreferrer\">npm基础</a>"},{"t":"list_item","d":5,"v":"<a href=\"docs/工程化/pakage_manager/npm/ba56c3b18aefa148f9439f026ec3f973\" title=\"\" target=\"_blank\" rel=\"noopener noreferrer\">npm包发布</a>"},{"t":"list_item","d":5,"v":"<a href=\"docs/工程化/pakage_manager/npm/3dd3c63e7e82145fe4b336ebc0271830\" title=\"\" target=\"_blank\" rel=\"noopener noreferrer\">unpkg校验包是否发布过todo</a>"},{"t":"list_item","d":5,"v":"<a href=\"docs/工程化/pakage_manager/npm/76a2b2c6444168e2975719ab5b80d947\" title=\"\" target=\"_blank\" rel=\"noopener noreferrer\">获取npm上包源码</a>"},{"t":"list_item","d":5,"v":"<a href=\"docs/工程化/pakage_manager/npm/4d10ece56264e33ab8a02f78698d77a1\" title=\"\" target=\"_blank\" rel=\"noopener noreferrer\">比较npm包下载和star等数据</a>"}]},{"t":"list_item","d":4,"v":"yarn"},{"t":"list_item","d":4,"v":"常见问题","c":[{"t":"list_item","d":5,"v":"<a href=\"docs/工程化/pakage_manager/常见问题/505112b129e18311b92912279ec967ac\" title=\"\" target=\"_blank\" rel=\"noopener noreferrer\">package.json字段详解</a>"},{"t":"list_item","d":5,"v":"<a href=\"docs/工程化/pakage_manager/常见问题/aa55a1757ae8690ae5adae7d48914a4a\" title=\"\" target=\"_blank\" rel=\"noopener noreferrer\">yarn全局安装依赖提示has_no_binaries</a>"},{"t":"list_item","d":5,"v":"<a href=\"docs/工程化/pakage_manager/常见问题/00acc1fbba1d66b5070d1c7cb5c9a175\" title=\"\" target=\"_blank\" rel=\"noopener noreferrer\">如何调试node_modules中的包</a>"},{"t":"list_item","d":5,"v":"<a href=\"docs/工程化/pakage_manager/常见问题/fa267f67236440714dbd398db0b50f41\" title=\"\" target=\"_blank\" rel=\"noopener noreferrer\">如何语义化发布包</a>"}]}]},{"t":"list_item","d":3,"v":"打包","c":[{"t":"list_item","d":4,"v":"Rollup","c":[{"t":"list_item","d":5,"v":"<a href=\"docs/工程化/打包/Rollup/4918d3072fb3da6be9ad6cfe54c020f3\" title=\"\" target=\"_blank\" rel=\"noopener noreferrer\">rollup</a>"}]},{"t":"list_item","d":4,"v":"webpack","c":[{"t":"list_item","d":5,"v":"loader","c":[{"t":"list_item","d":6,"v":"自定义loader","c":[{"t":"list_item","d":7,"v":"<a href=\"docs/工程化/打包/webpack/loader/自定义loader/bb6fe2d423417230b7c365bc5b206c5c\" title=\"\" target=\"_blank\" rel=\"noopener noreferrer\">基础</a>"}]}]},{"t":"list_item","d":5,"v":"plugins"},{"t":"list_item","d":5,"v":"版本"},{"t":"list_item","d":5,"v":"源码解读","c":[{"t":"list_item","d":6,"v":"<a href=\"docs/工程化/打包/webpack/源码解读/3044cf73a36f83e5344247f79ffb719e\" title=\"\" target=\"_blank\" rel=\"noopener noreferrer\">Tapable</a>"},{"t":"list_item","d":6,"v":"<a href=\"docs/工程化/打包/webpack/源码解读/8b9409a6ad189493556150ffca9a2079\" title=\"\" target=\"_blank\" rel=\"noopener noreferrer\">webpack</a>"},{"t":"list_item","d":6,"v":"<a href=\"docs/工程化/打包/webpack/源码解读/7cb10912f28c1696659c6131b517f27c\" title=\"\" target=\"_blank\" rel=\"noopener noreferrer\">webpack常见js方法</a>"},{"t":"list_item","d":6,"v":"<a href=\"docs/工程化/打包/webpack/源码解读/0889ebe5191ee49173a6c02e5d4ccd6f\" title=\"\" target=\"_blank\" rel=\"noopener noreferrer\">webpack依赖的包</a>"},{"t":"list_item","d":6,"v":"<a href=\"docs/工程化/打包/webpack/源码解读/80e8979bbebe30571bf98fea6d3b32d0\" title=\"\" target=\"_blank\" rel=\"noopener noreferrer\">webpack源码解读</a>"},{"t":"list_item","d":6,"v":"<a href=\"docs/工程化/打包/webpack/源码解读/768e191e2dc797ba437ddbf619dcf3b5\" title=\"\" target=\"_blank\" rel=\"noopener noreferrer\">热更新原理</a>"}]}]}]},{"t":"list_item","d":3,"v":"组件化","c":[{"t":"list_item","d":4,"v":"bit","c":[{"t":"list_item","d":5,"v":"<a href=\"docs/工程化/组件化/bit/be1ca961dc46d96b90f640b1a9f91637\" title=\"\" target=\"_blank\" rel=\"noopener noreferrer\">什么是bit</a>"}]}]},{"t":"list_item","d":3,"v":"脚手架","c":[{"t":"list_item","d":4,"v":"create-react-app"},{"t":"list_item","d":4,"v":"vue-cli"},{"t":"list_item","d":4,"v":"自定义一个脚手架","c":[{"t":"list_item","d":5,"v":"<a href=\"docs/工程化/脚手架/自定义一个脚手架/e1f3c1423014acd77d6282114faf6935\" title=\"\" target=\"_blank\" rel=\"noopener noreferrer\">commander</a>"},{"t":"list_item","d":5,"v":"<a href=\"docs/工程化/脚手架/自定义一个脚手架/a22104b4d4d83949f5bd3d6a37f5e0e6\" title=\"\" target=\"_blank\" rel=\"noopener noreferrer\">使用mrm自动生成rc配置文件</a>"}]}]},{"t":"list_item","d":3,"v":"版本控制系统","c":[{"t":"list_item","d":4,"v":"git","c":[{"t":"list_item","d":5,"v":"<a href=\"docs/工程化/版本控制系统/git/85735fc293ff4dbf3ef3e42201cb061d\" title=\"\" target=\"_blank\" rel=\"noopener noreferrer\">git</a>"},{"t":"list_item","d":5,"v":"<a href=\"docs/工程化/版本控制系统/git/f44cff448a465ee2ca3198da71bcb121\" title=\"\" target=\"_blank\" rel=\"noopener noreferrer\">自动删除已经合并分支</a>"}]},{"t":"list_item","d":4,"v":"svn"}]},{"t":"list_item","d":3,"v":"埋点和异常上报"},{"t":"list_item","d":3,"v":"代码格式化和校验","c":[{"t":"list_item","d":4,"v":"eslint","c":[{"t":"list_item","d":5,"v":"常见问题","c":[{"t":"list_item","d":6,"v":"<a href=\"docs/工程化/代码格式化和校验/eslint/常见问题/233da306cf55234202a23869df56766b\" title=\"\" target=\"_blank\" rel=\"noopener noreferrer\">eslint报错no-unpublished-require</a>"}]},{"t":"list_item","d":5,"v":"<a href=\"docs/工程化/代码格式化和校验/eslint/a32e173f131f0493cb5fc48bf410366b\" title=\"\" target=\"_blank\" rel=\"noopener noreferrer\">开发一个eslint规则包</a>"}]}]}]},{"t":"list_item","d":2,"v":"浏览器","c":[{"t":"list_item","d":3,"v":"存储","c":[{"t":"list_item","d":4,"v":"cookie"},{"t":"list_item","d":4,"v":"indexDB"},{"t":"list_item","d":4,"v":"localStorage"},{"t":"list_item","d":4,"v":"sessionStorage"}]},{"t":"list_item","d":3,"v":"性能"},{"t":"list_item","d":3,"v":"缓存"},{"t":"list_item","d":3,"v":"跨域"},{"t":"list_item","d":3,"v":"事件机制","c":[{"t":"list_item","d":4,"v":"<a href=\"docs/浏览器/事件机制/87752b53c7784786dab3942f0aaa23aa\" title=\"\" target=\"_blank\" rel=\"noopener noreferrer\">事件机制</a>"}]},{"t":"list_item","d":3,"v":"插件开发","c":[{"t":"list_item","d":4,"v":"<a href=\"docs/浏览器/插件开发/05456f7f836f1d5ccf67498cad9d6745\" title=\"\" target=\"_blank\" rel=\"noopener noreferrer\">chrome扩展程序</a>"},{"t":"list_item","d":4,"v":"<a href=\"docs/浏览器/插件开发/4a29e3516544d5fec60d6c604d33dd46\" title=\"\" target=\"_blank\" rel=\"noopener noreferrer\">create-react-app创建谷歌扩展</a>"}]},{"t":"list_item","d":3,"v":"渲染机制"},{"t":"list_item","d":3,"v":"事件循环机制","c":[{"t":"list_item","d":4,"v":"<a href=\"docs/浏览器/事件循环机制/9cf564181c2b2d6a44c89a4d1f4f0952\" title=\"\" target=\"_blank\" rel=\"noopener noreferrer\">深入理解js事件循环机制（浏览器篇）</a>"}]}]},{"t":"list_item","d":2,"v":"<a href=\"docs/95a148348b289ba387509c05eb1c6af2\" title=\"\" target=\"_blank\" rel=\"noopener noreferrer\">关于该repo</a>"},{"t":"list_item","d":2,"v":"前端安全"},{"t":"list_item","d":2,"v":"协议规范"},{"t":"list_item","d":2,"v":"工具调试","c":[{"t":"list_item","d":3,"v":"charles"},{"t":"list_item","d":3,"v":"chrome","c":[{"t":"list_item","d":4,"v":"插件"},{"t":"list_item","d":4,"v":"控制台"}]},{"t":"list_item","d":3,"v":"vscode","c":[{"t":"list_item","d":4,"v":"插件","c":[{"t":"list_item","d":5,"v":"<a href=\"docs/Node.js/常用npm_package/5b48dd8280d9d24945307c72022765a0\" title=\"\" target=\"_blank\" rel=\"noopener noreferrer\">清单</a>"}]},{"t":"list_item","d":4,"v":"快捷键"}]}]},{"t":"list_item","d":2,"v":"性能优化"},{"t":"list_item","d":2,"v":"操作系统","c":[{"t":"list_item","d":3,"v":"linux","c":[{"t":"list_item","d":4,"v":"linux基础","c":[{"t":"list_item","d":5,"v":"<a href=\"docs/操作系统/linux/linux基础/4c70355f2f692142ff83f1581fd5342c\" title=\"\" target=\"_blank\" rel=\"noopener noreferrer\">yum</a>"},{"t":"list_item","d":5,"v":"<a href=\"docs/工程化/打包/webpack/loader/自定义loader/bb6fe2d423417230b7c365bc5b206c5c\" title=\"\" target=\"_blank\" rel=\"noopener noreferrer\">基础</a>"},{"t":"list_item","d":5,"v":"<a href=\"docs/ECMASCript/b53484b1bcbe1911e09c68d510ac7d64\" title=\"\" target=\"_blank\" rel=\"noopener noreferrer\">学习资源</a>"}]},{"t":"list_item","d":4,"v":"脚本","c":[{"t":"list_item","d":5,"v":"<a href=\"docs/操作系统/linux/脚本/5d8743a01675138db72310478b6c7f30\" title=\"\" target=\"_blank\" rel=\"noopener noreferrer\">bash_shell脚本</a>"},{"t":"list_item","d":5,"v":"<a href=\"docs/操作系统/linux/脚本/c89e3ed149c086944696ba0fe3a5ffde\" title=\"\" target=\"_blank\" rel=\"noopener noreferrer\">expect脚本</a>"}]}]},{"t":"list_item","d":3,"v":"常见问题","c":[{"t":"list_item","d":4,"v":"<a href=\"docs/操作系统/常见问题/266a427dc6cbff56d8603056f435a8b9\" title=\"\" target=\"_blank\" rel=\"noopener noreferrer\">进程和线程区别todo</a>"}]}]},{"t":"list_item","d":2,"v":"网络协议","c":[{"t":"list_item","d":3,"v":"<a href=\"docs/网络协议/51598b43a209ae4d33a59bb92df20032\" title=\"\" target=\"_blank\" rel=\"noopener noreferrer\">图解http</a>"}]},{"t":"list_item","d":2,"v":"设计模式"},{"t":"list_item","d":2,"v":"微信公众号"},{"t":"list_item","d":2,"v":"算法和数据结构"},{"t":"list_item","d":2,"v":"移动端跨平台开发"}]},(loadPlugins, items, opts) => loadPlugins(items, opts),["prism"],{"prism":true})</script>
 </body>
 </html>
